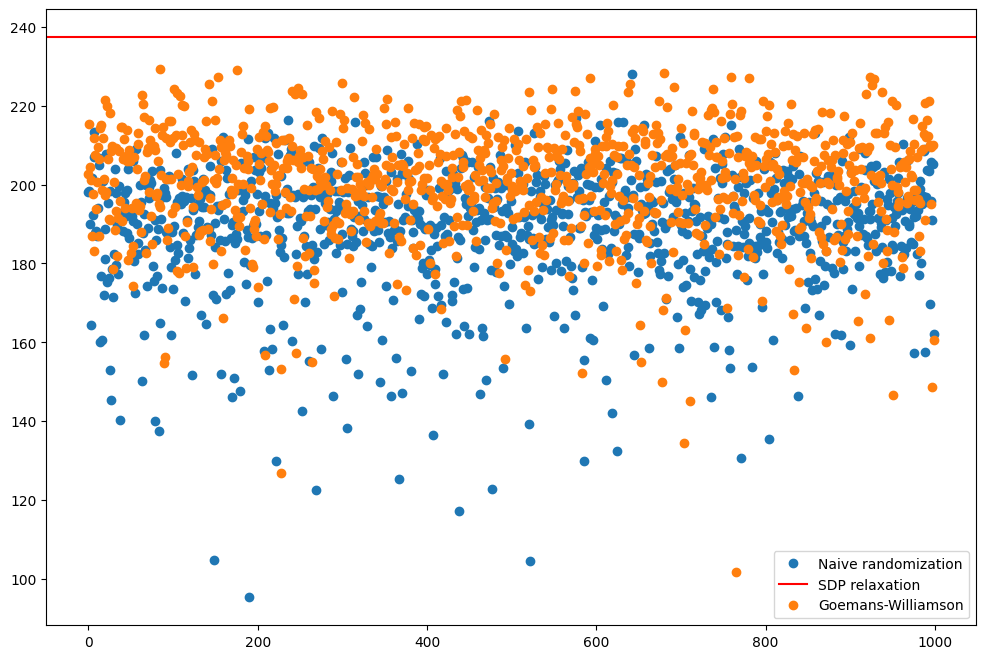
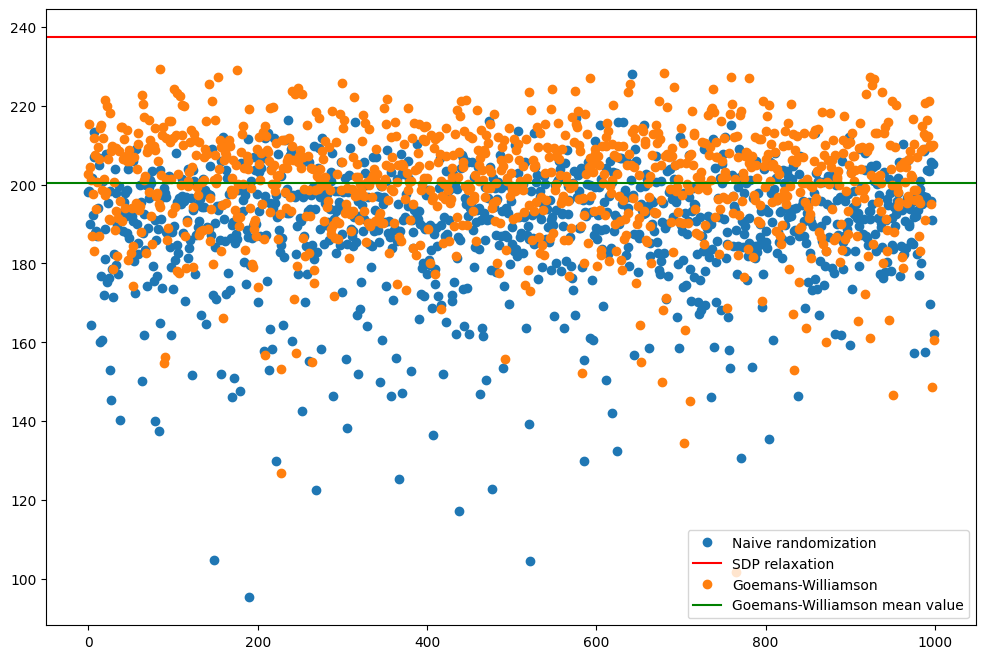
Small change

Changed region(s): [[0.6998, 0.8194, 0.9736, 0.9408]]

diff --git a/hw5/max_cut.py b/hw5/max_cut.py
@@ -30,10 +30,6 @@ def main():
     constraints += [
         X[i, i] == 1 for i in range(n)
     ]
-    # I = np.eye(n)
-    # constraints += [
-    #     X*I == I
-    # ]
     prob = cp.Problem(cp.Maximize(cp.trace(L @ X)),
                       constraints)
     prob.solve(solver=cp.CVXOPT)
@@ -50,6 +46,7 @@ def main():
             x[j] = 1. if V[:, j] @ xi > 0 else -1.
         vals.append((x.T @ L @ x).item())
     plt.plot(vals, 'o', label="Goemans-Williamson")
+    plt.axhline(y=np.mean(vals), color='g', linestyle='-', label="Goemans-Williamson mean value")
 
     plt.legend()
     plt.savefig("max_cut.png", bbox_inches='tight')
